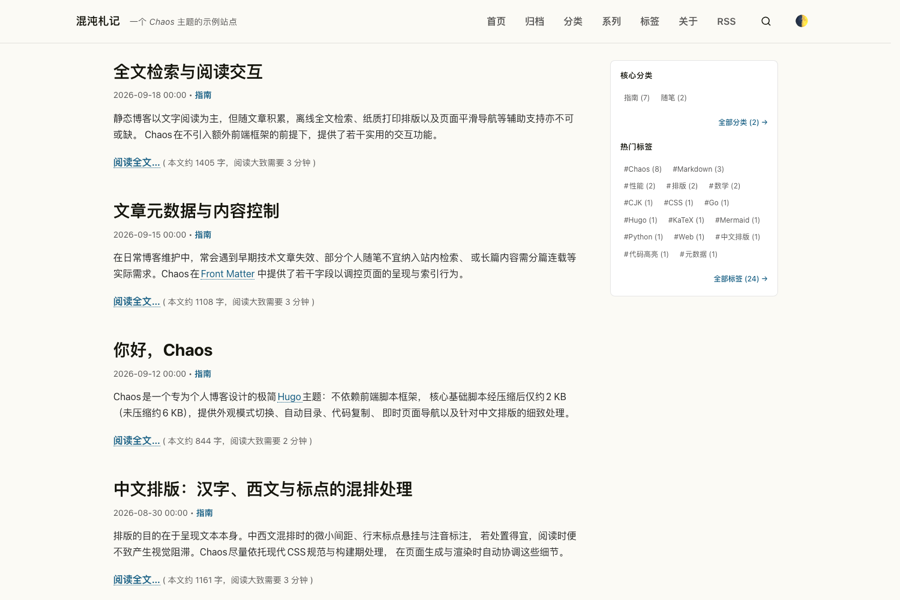
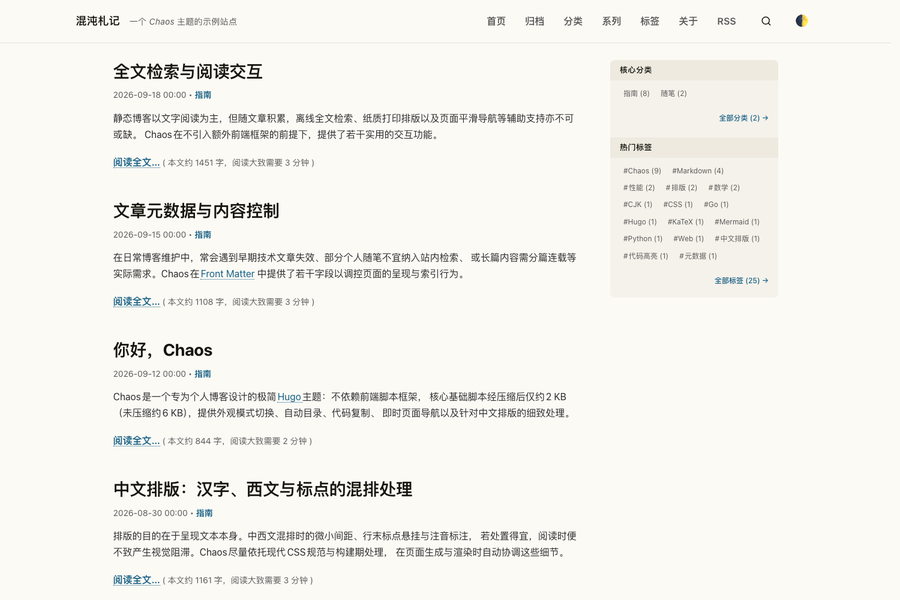
docs: retake the screenshots for the new palette and blocks of ground
images/screenshot.png, screenshot-dark.png and tn.png showed the white
bordered sidebar and the old dark palette. Retaken from the example
site at the same framing: the home page by day, and the KaTeX article
by night from its block-math section, with that entry current in the
table of contents. tn.png is the home page at 900x600.

The specimen is dated 2024-01-01, so that it sits at the end of the
post list instead of heading the home page and its screenshot.

diff --git a/exampleSite/content/posts/specimen/index.md b/exampleSite/content/posts/specimen/index.md
@@ -1,6 +1,6 @@
 ---
 title: "样张：主题组件一览"
-date: 2026-10-02
+date: 2024-01-01
 description: "在一页之内按固定顺序排出 Chaos 主题渲染的全部组件，供调整配色与排版时对照检查。"
 categories: ["指南"]
 tags: ["Chaos", "Markdown", "样张"]
